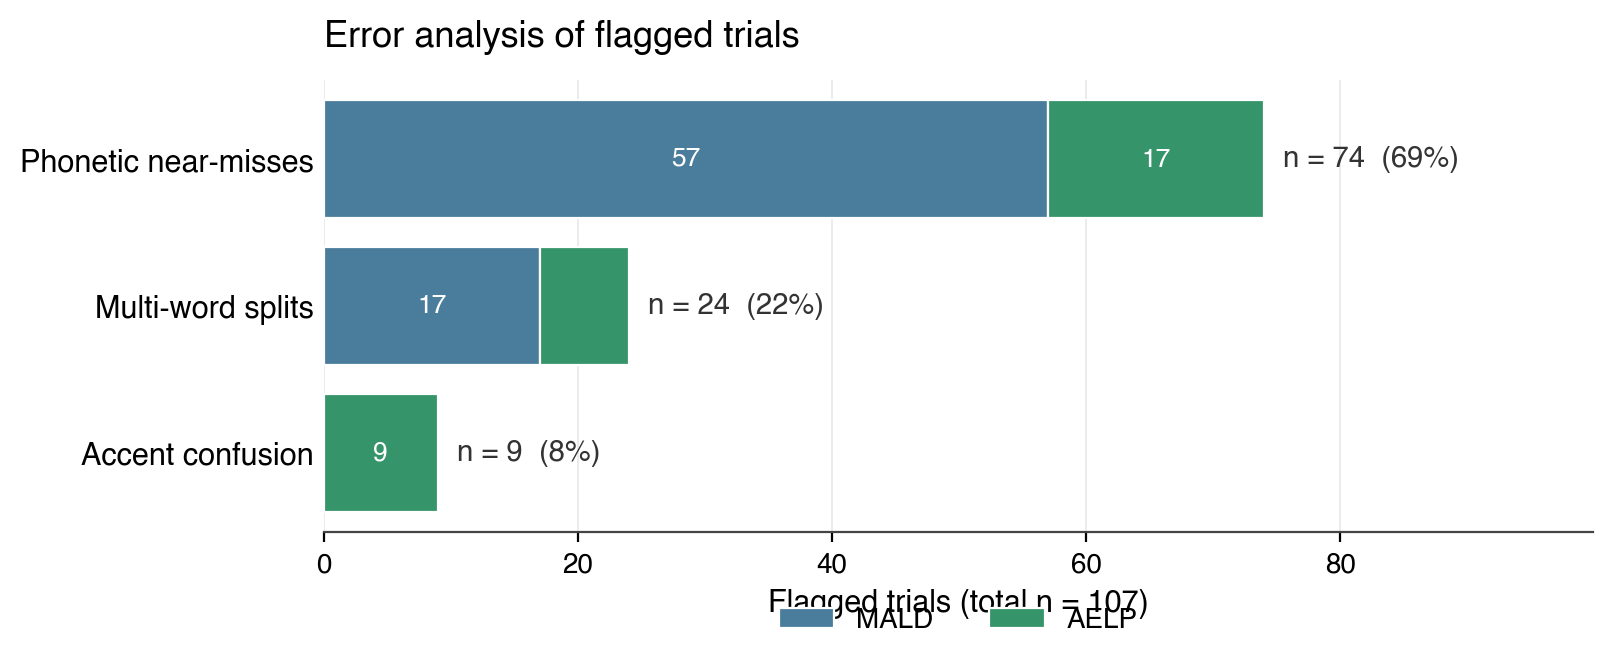
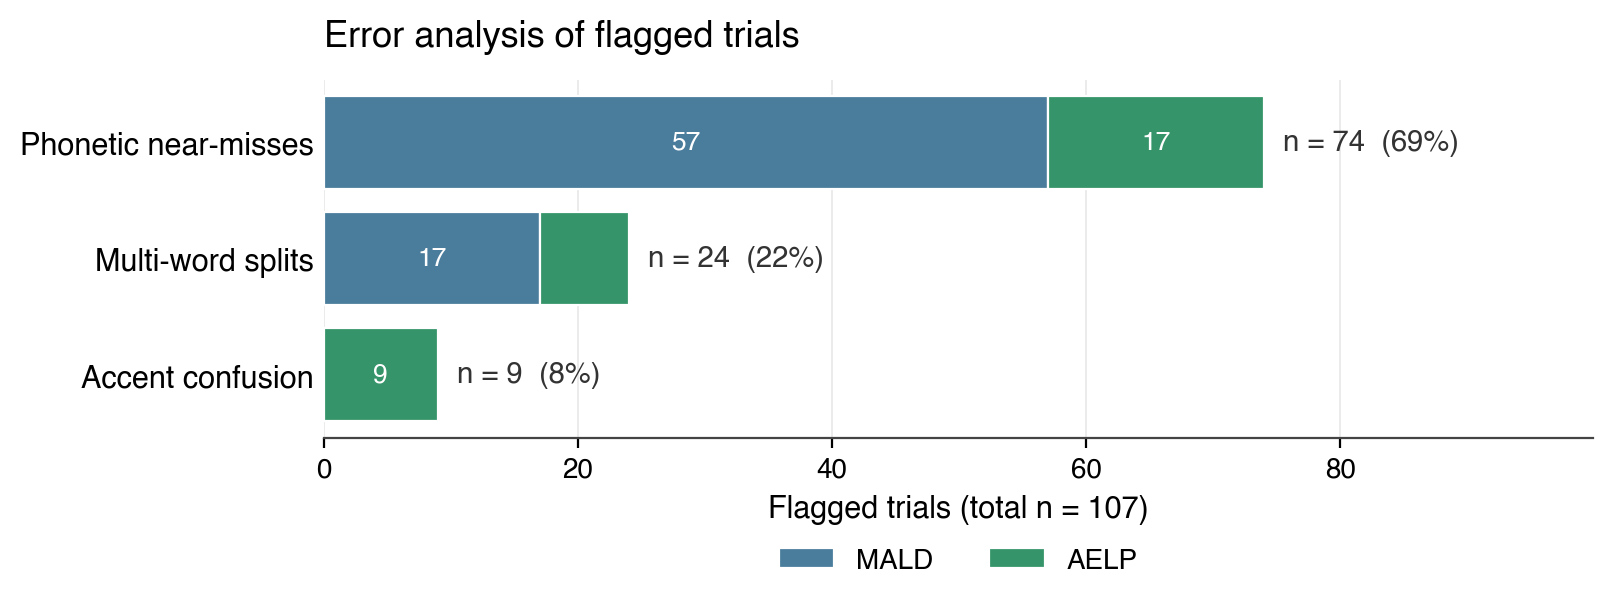
update plots vincent

diff --git a/_posts/2026-04-15-asr_validator.md b/_posts/2026-04-15-asr_validator.md
@@ -4,7 +4,7 @@ title: "Automated Validation of Verbal Responses in Language-Production Research
 date: 2026-04-15
 description: "In this blog post, Vincent Gruber presents a pipeline for the automated validation of verbal responses in word-production experiments. Using Faster-Whisper (large-v3-turbo) and a three-stage matching procedure the pipeline achieved a 93.3% automatic match rate across two English datasets (MALD: 926/1000, Canadian English; AELP: 567/600)."
 tags: [psycholinguistics, speech-recognition, word-production, annotation, asr]
-thumbnail: /assets/img/blog/asr_validator/figure1.png
+thumbnail: /assets/img/blog/asr_validator/error_analysis_barplot.png
 publication_type: "Conference Poster"
 bibliography: asr_validator.bib
 paper_url: "https://schiekiera.github.io/assets/pdf/poster_TeaP2026.pdf"
@@ -68,8 +68,8 @@ Trials that pass any of the three stages are marked as automatically verified. T
 Trials are presented in a browser-based annotation interface that displays the waveform, a mel spectrogram, the ASR transcription, and the target word alongside its recognition probability.
 
 <figure class="post-figure">
-  <img src="/assets/img/blog/asr_validator/figure1.png" alt="Validator interface" class="zoomable" data-zoomable>
-  <figcaption>The Speech Onset Validator interface. Each trial shows the waveform with a draggable onset marker, the mel spectrogram, and the ASR recognition result with token probability. The annotator can play, loop, and confirm or correct the response using keyboard shortcuts.</figcaption>
+  <img src="/assets/img/blog/asr_validator/figure1.png" alt="Screenshot of the browser-based Speech Onset Validator annotation interface" class="zoomable" data-zoomable>
+  <figcaption>The browser-based Speech Onset Validator interface for manual review of flagged trials. Each trial displays the audio waveform with a draggable onset marker, a spectrogram, and the ASR transcription alongside its token-level recognition probability. Annotators operate the interface entirely via keyboard shortcuts to play, loop, and confirm or correct each response.</figcaption>
 </figure>
 
 The interface is operated entirely via keyboard shortcuts. Annotators can mark a response as correct, incorrect, or uncertain, and manually enter the spoken word if the ASR transcription was wrong.
@@ -83,8 +83,8 @@ We validate the pipeline on two established English-language datasets: the Audit
 Across both datasets, the pipeline automatically verified **1,493 trials** (93.3%), with  **107 cases (~6.7%) flagged** for manual review. Per-dataset match rates were 94.5% for AELP (567/600) and 92.6% for MALD (926/1,000), across 7 speakers in total.
 
 <figure class="post-figure">
-  <img src="/assets/img/blog/asr_validator/results_barplot.png" alt="Validator interface" class="zoomable" data-zoomable>
-  <figcaption>Match rates for the two datasets.</figcaption>
+  <img src="/assets/img/blog/asr_validator/results_barplot.png" alt="Horizontal bar chart showing automatic match rates of 94.5% for AELP and 92.6% for MALD" class="zoomable" data-zoomable>
+  <figcaption>Automatic match rates per dataset. The pipeline verified 94.5% of AELP trials (567/600, 6 speaker varieties) and 92.6% of MALD trials (926/1,000, Canadian English) without manual intervention, yielding a combined match rate of 93.3% across 1,600 trials. Amber segments indicate trials flagged for manual review.</figcaption>
 </figure>
 
 #### Annotated workflow
@@ -102,8 +102,8 @@ Manual inspection of the 107 non-matches revealed three categories of failure:
 **Accent confusion (8%, n = 9)** — Whisper maps non-native vowels or prosodic patterns to the nearest lexical entry in its prior (e.g., *halt* → *hold*, *detour* → *die Tür*). This category was found exclusively in AELP, which includes non-native speaker varieties, and reflects the sensitivity of large-vocabulary ASR models to speaker-specific phonological variation.
 
 <figure class="post-figure">
-  <img src="/assets/img/blog/asr_validator/error_analysis_barplot.png" alt="Validator interface" class="zoomable" data-zoomable>
-  <figcaption>Error analysis for the two datasets.</figcaption>
+  <img src="/assets/img/blog/asr_validator/error_analysis_barplot.png" alt="Horizontal bar chart showing error categories: phonetic near-misses (69%), multi-word splits (22%), and accent confusion (8%)" class="zoomable" data-zoomable>
+  <figcaption>Breakdown of the 107 flagged trials by error category and dataset. Phonetic near-misses account for the majority of failures in both MALD and AELP. Multi-word splits affect both datasets similarly, while accent confusion occurs exclusively in AELP, reflecting its inclusion of non-native speaker varieties.</figcaption>
 </figure>
 
 ### Discussion and Future Directions
